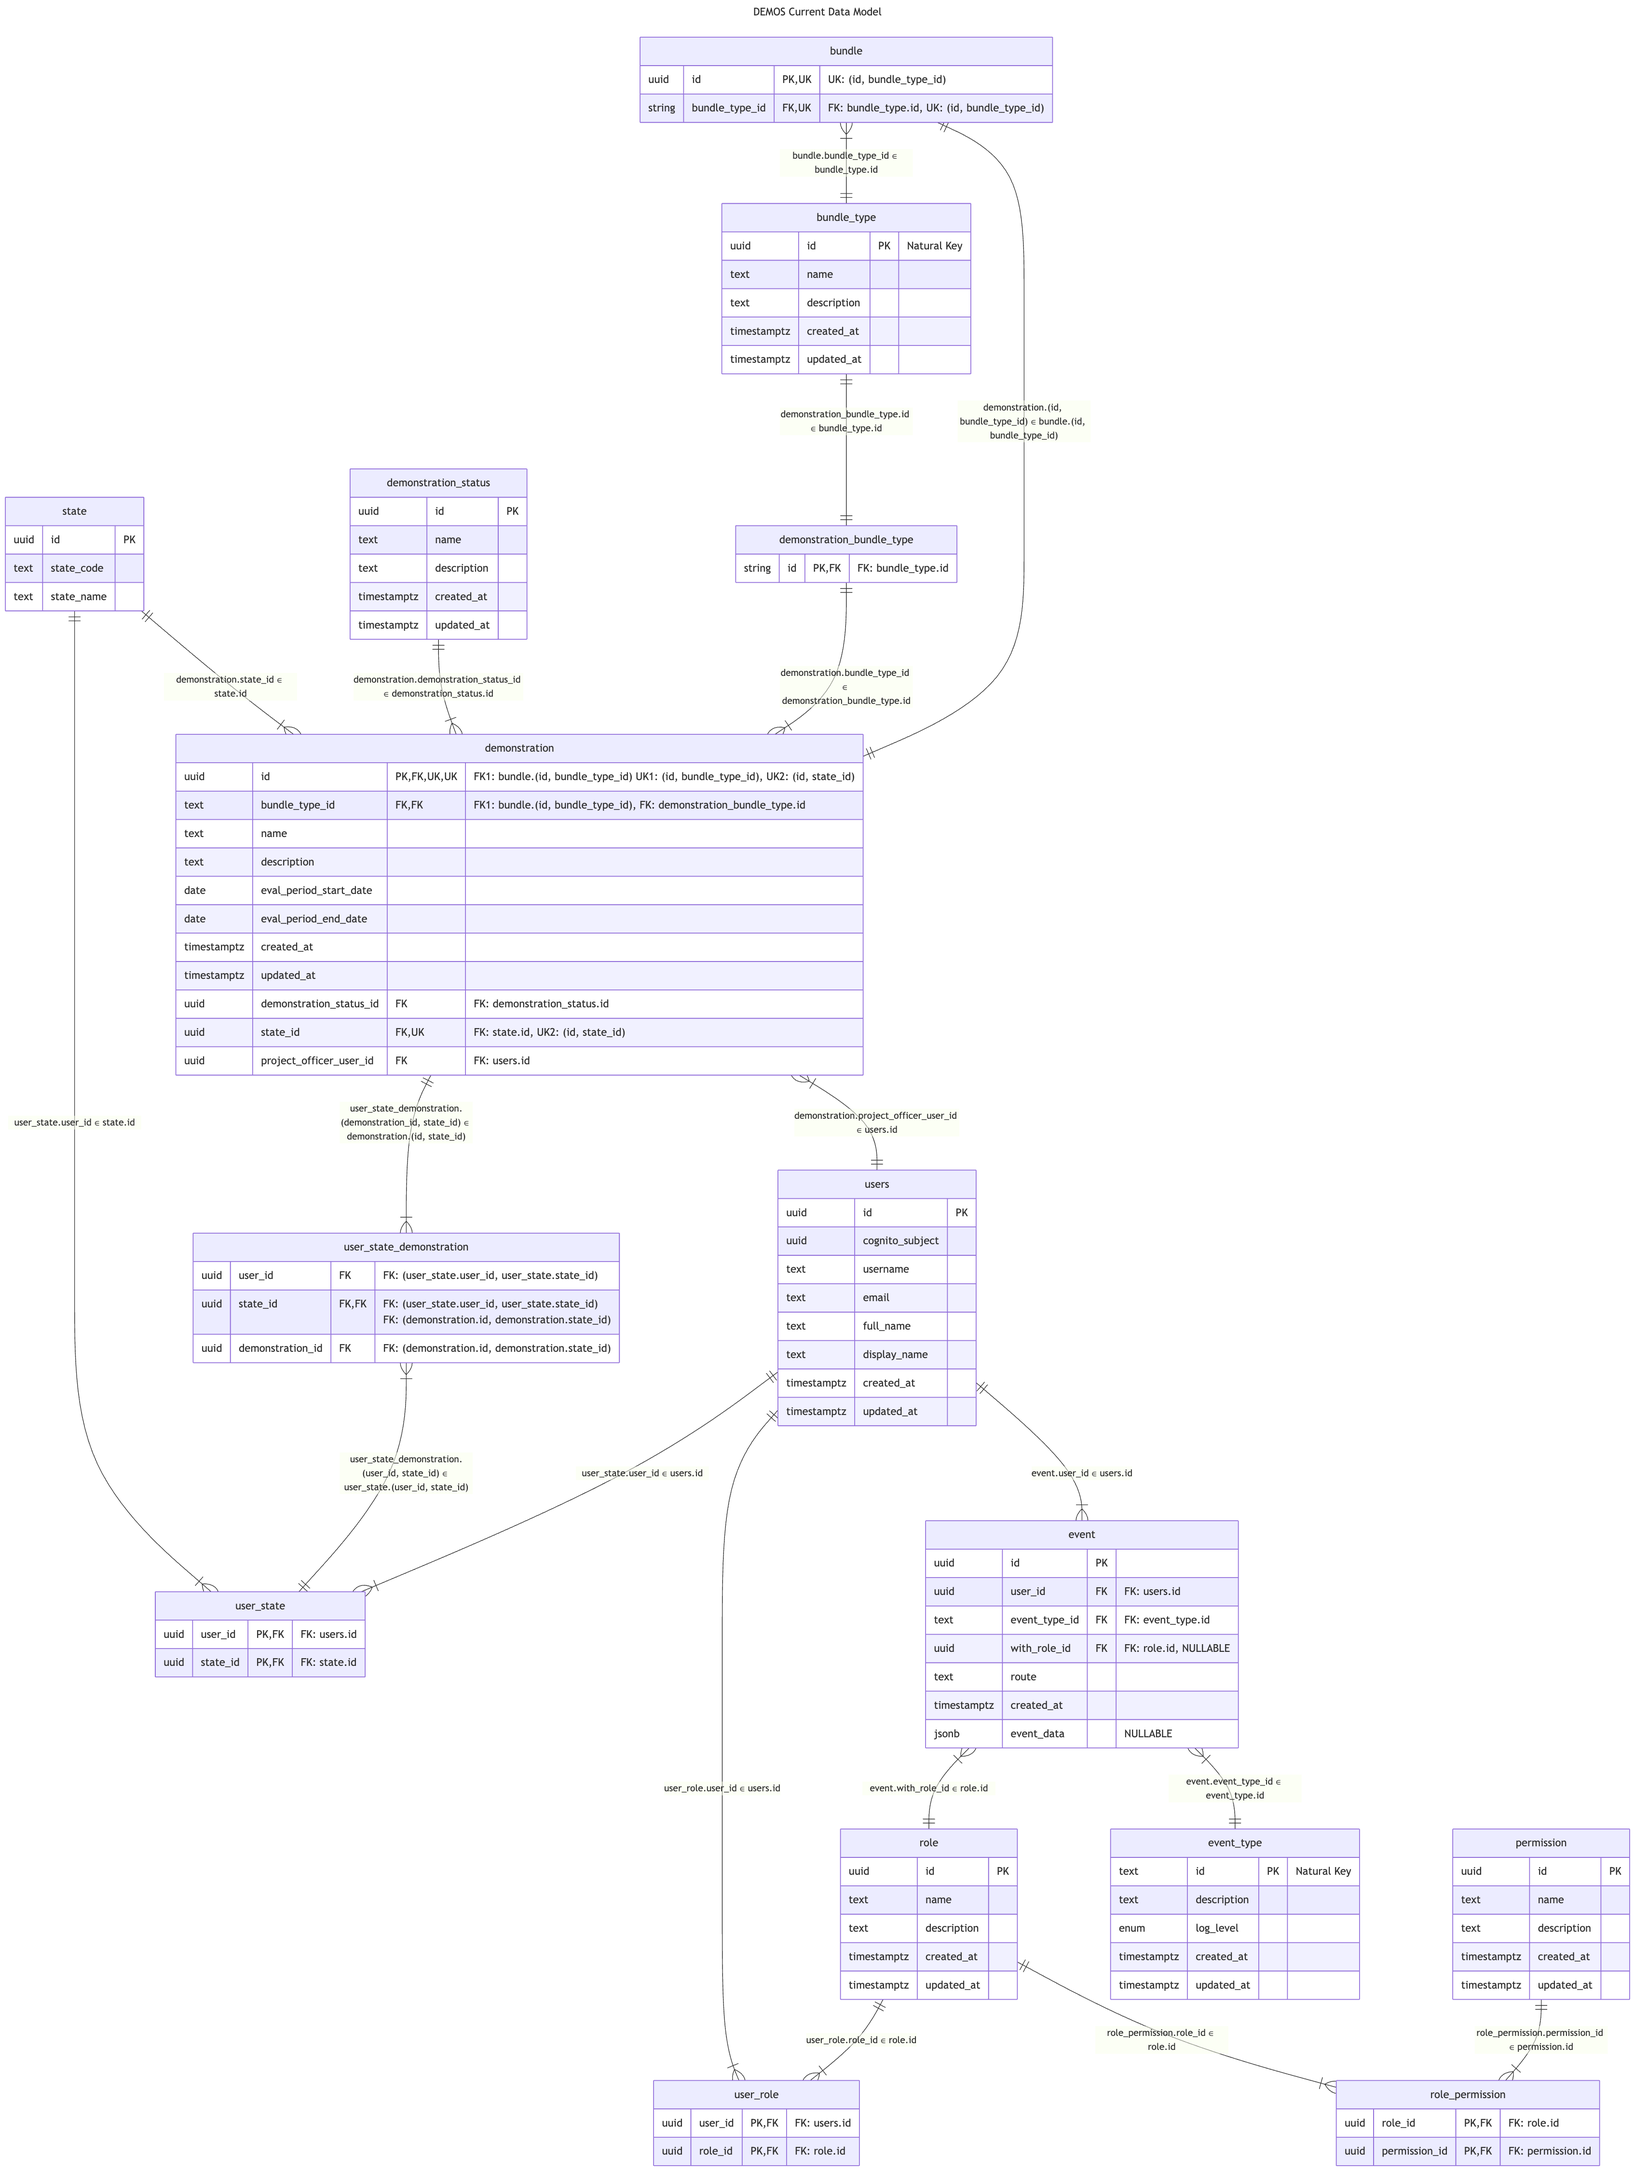
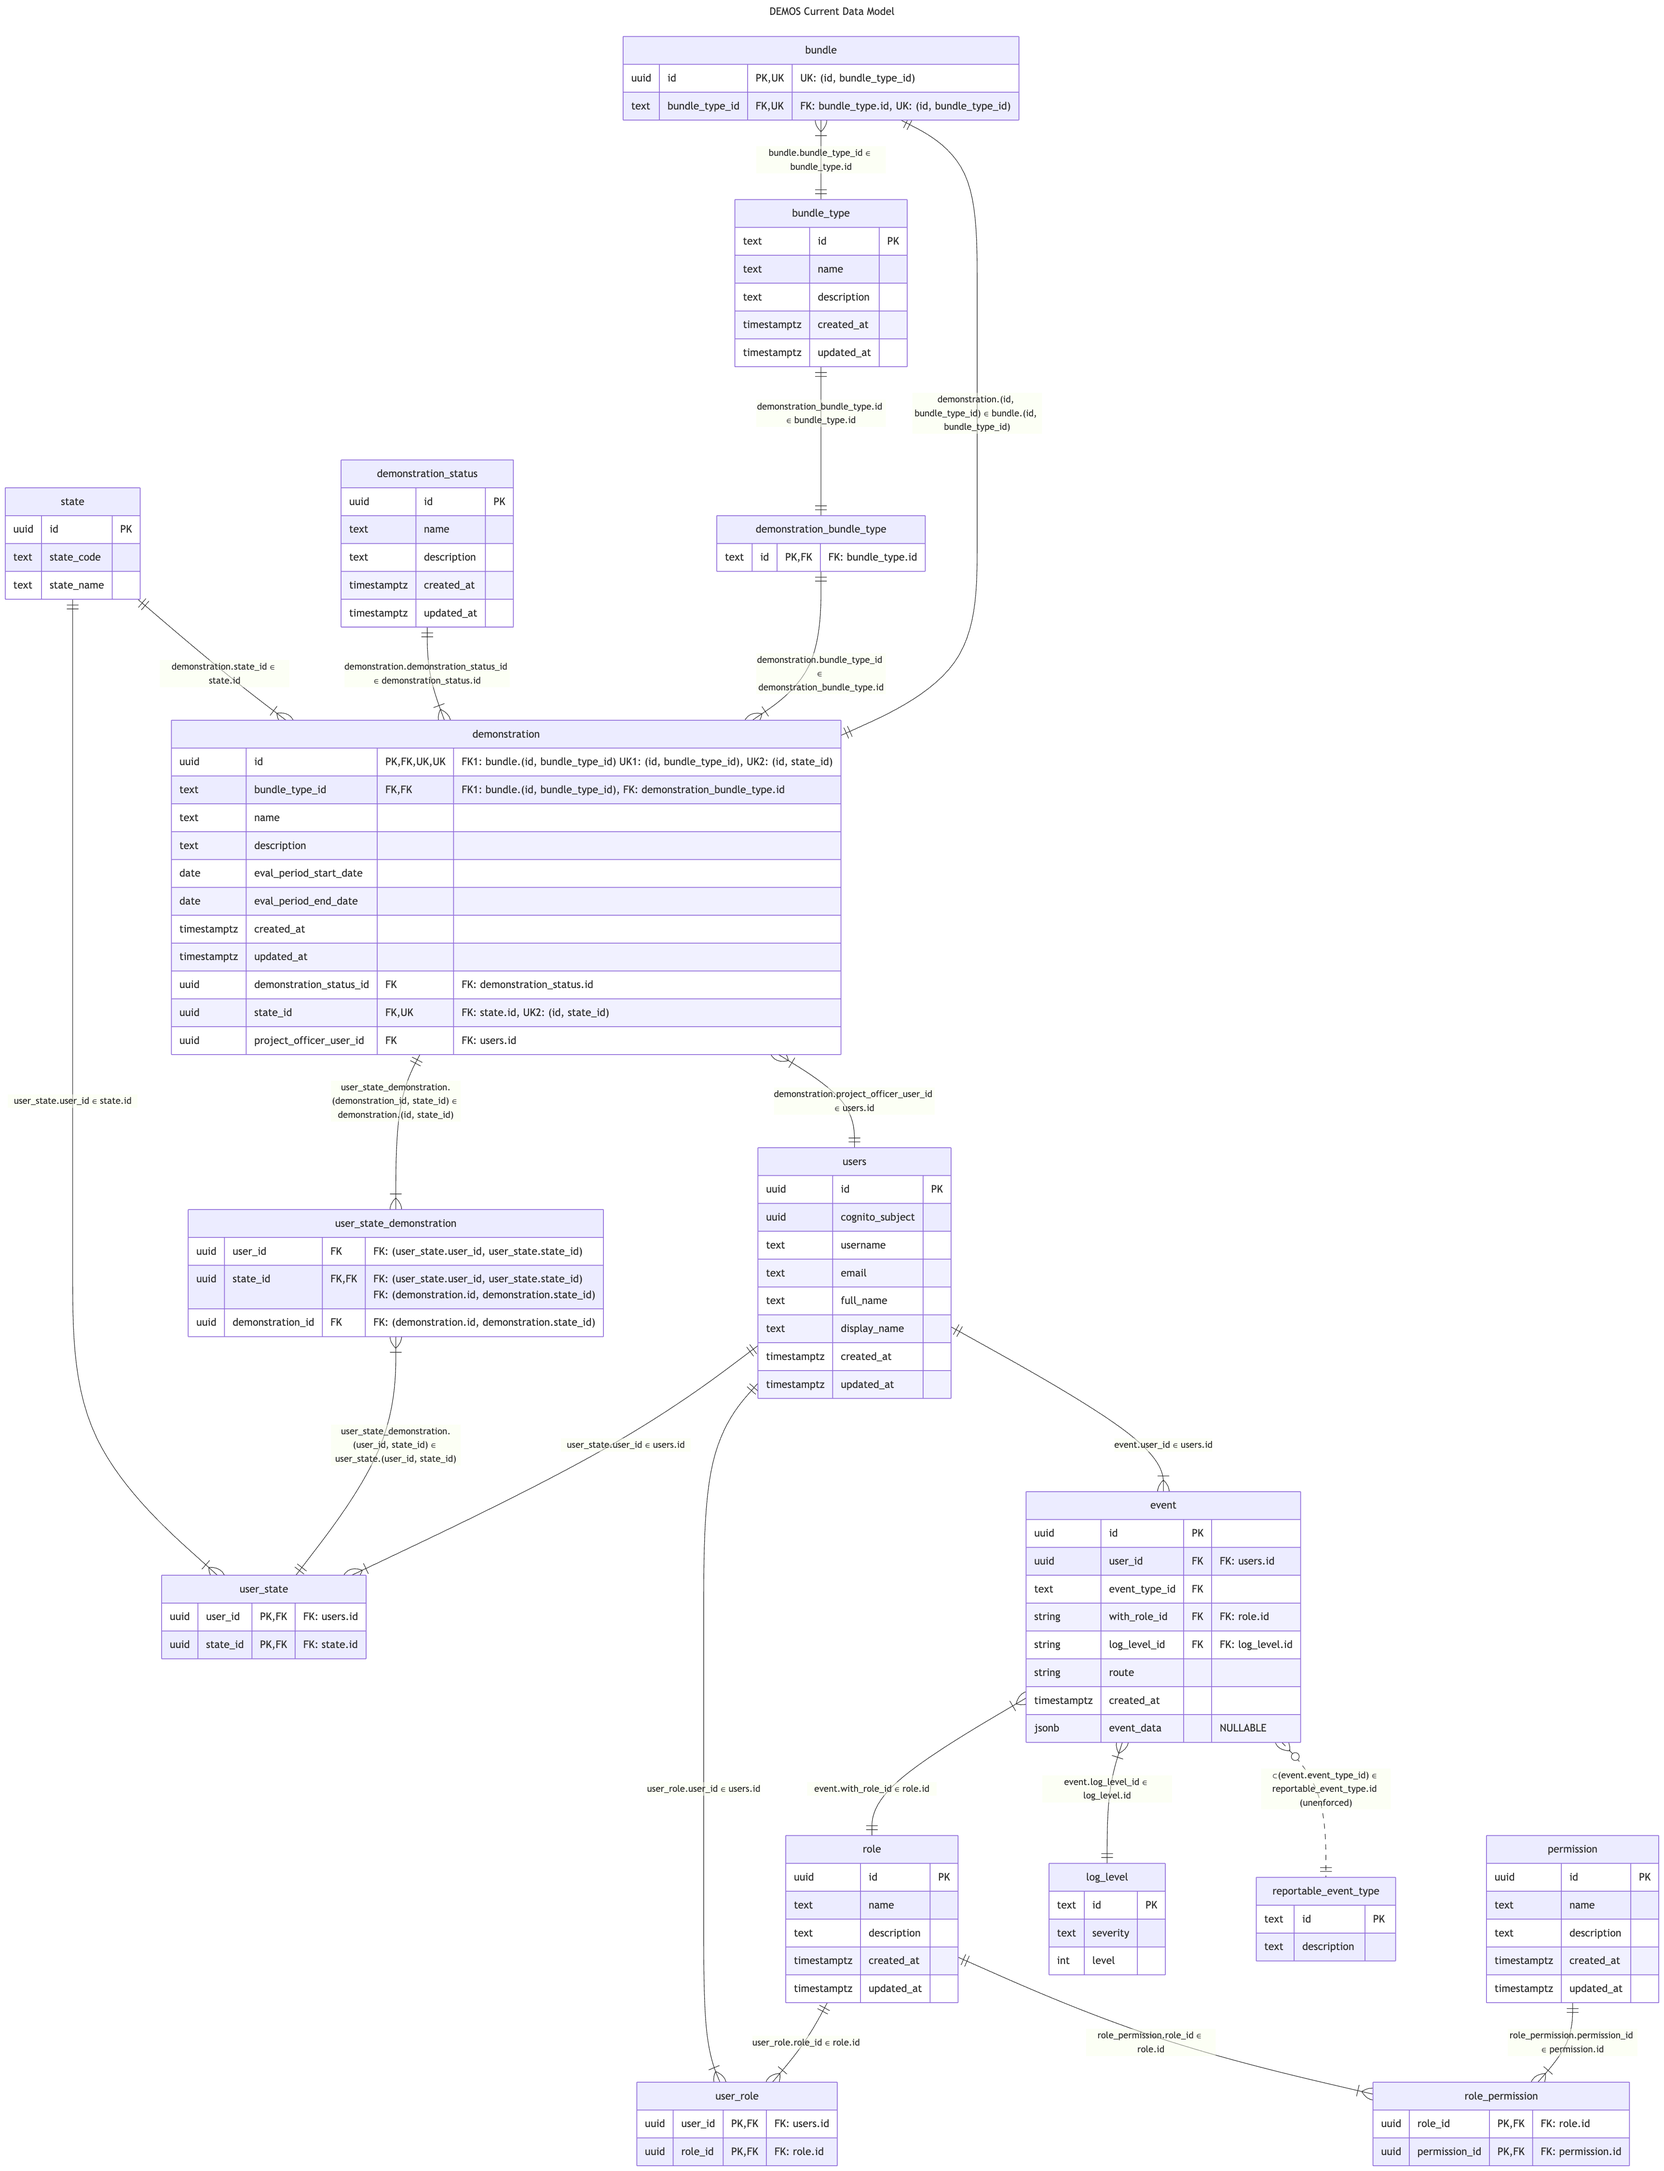
Updates to the event resolvers to align with the method used for most of the others. Moved the event search by user to the user API. Updated the data model.

diff --git a/server/src/model/event/eventResolvers.ts b/server/src/model/event/eventResolvers.ts
@@ -1,39 +1,25 @@
 import { prisma } from '../../prismaClient.js';
 import { CreateEventInput } from './eventSchema.js';
+import { Event } from "@prisma/client";
 import { GraphQLContext, getCurrentUserId, getCurrentUserRoleId } from '../../auth/auth.util.js';
 
 export const eventResolvers = {
   Query: {
     events: async () => {
       return await prisma().event.findMany({
-        include: {
-          user: true,
-          logLevel: true,
-          withRole: true
-        },
         orderBy: { createdAt: 'desc' }
       });
     },
 
     event: async (_: undefined, { id }: { id: string }) => {
       return await prisma().event.findUnique({
-        where: { id },
-        include: {
-          user: true,
-          logLevel: true,
-          withRole: true
-        }
+        where: { id }
       });
     },
 
     eventsByType: async (_: undefined, { eventTypeId }: { eventTypeId: string }) => {
       return await prisma().event.findMany({
         where: { eventTypeId },
-        include: {
-          user: true,
-          logLevel: true,
-          withRole: true
-        },
         orderBy: { createdAt: 'desc' }
       });
     },
@@ -41,11 +27,6 @@ export const eventResolvers = {
     eventsByUser: async (_: undefined, { userId }: { userId: string }) => {
       return await prisma().event.findMany({
         where: { userId },
-        include: {
-          user: true,
-          logLevel: true,
-          withRole: true
-        },
         orderBy: { createdAt: 'desc' }
       });
     },
@@ -53,11 +34,6 @@ export const eventResolvers = {
     eventsByRoute: async (_: undefined, { route }: { route: string }) => {
       return await prisma().event.findMany({
         where: { route },
-        include: {
-          user: true,
-          logLevel: true,
-          withRole: true
-        },
         orderBy: { createdAt: 'desc' }
       });
     }
@@ -72,19 +48,41 @@ export const eventResolvers = {
 
       return await prisma().event.create({
         data: {
-          userId,
-          eventTypeId,
-          logLevelId,
-          withRoleId,
-          route,
-          eventData
-        },
-        include: {
-          user: true,
-          logLevel: true,
-          withRole: true
+          user: {
+            connect: {
+              id: userId
+            }
+          },
+          eventTypeId: eventTypeId,
+          withRole: {
+            connect: {
+              id: withRoleId
+            }
+          },
+          logLevel: {
+            connect: {
+              id: logLevelId
+            }
+          },
+          route: route,
+          eventData: eventData
         }
       });
     }
+  },
+
+  Event: {
+    user: async (parent: Event) => {
+      return await prisma().user.findUnique({
+        where: { id: parent.userId },
+      });
+    },
+
+    withRole: async (parent: Event) => {
+      return await prisma().role.findUnique({
+        where: { id: parent.withRoleId },
+      });
+    },
   }
+
 };

diff --git a/server/src/model/event/eventSchema.ts b/server/src/model/event/eventSchema.ts
@@ -1,4 +1,6 @@
 import { gql } from "graphql-tag";
+import { User } from "../user/userSchema.js";
+import { Role } from "../role/roleSchema.js";
 
 export const eventSchema = gql`
   """
@@ -6,37 +8,25 @@ export const eventSchema = gql`
   """
   type Event {
     id: ID!               # From B/E (generated by Prisma)
-    userId: ID!           # From B/E
+    user: User!           # From B/E
     eventTypeId: String!  # From F/E
-    withRoleId: ID!       # From B/E
+    withRole: Role!       # From B/E
     logLevelId: String!   # From F/E
     route: String!        # From F/E
     createdAt: DateTime!  # From B/E (generated by Prisma)
     eventData: JSONObject # From F/E
   }
 
-  # An event with all the fields populated for easier querying
-  type EventHydrated {
-    id: ID!
-    user: User!
-    eventTypeId: String!
-    withRole: Role!
-    logLevelId: String!
-    route: String!
-    createdAt: DateTime!
-    eventData: JSONObject
-  }
-
   type Query {
-    events: [EventHydrated!]!
-    event(id: ID!): EventHydrated
-    eventsByType(eventTypeId: String!): [EventHydrated!]!
-    eventsByUser(userId: ID!): [EventHydrated!]!
-    eventsByRoute(route: String!): [EventHydrated!]!
+    events: [Event]!
+    event(id: ID!): Event
+    eventsByType(eventTypeId: String!): [Event]!
+    eventsByUser(userId: ID!): [Event]!
+    eventsByRoute(route: String!): [Event]!
   }
   
   type Mutation {
-    createEvent(input: CreateEventInput!): EventHydrated!
+    createEvent(input: CreateEventInput!): Event!
   }
 
   """
@@ -54,9 +44,9 @@ export const eventSchema = gql`
 type DateTime = Date;
 export interface Event {
   id: string;
-  userId: string;
+  user: User;
   eventTypeId: string;
-  withRoleId: string;
+  withRole: Role;
   logLevelId: string;
   route: string;
   createdAt: DateTime;

diff --git a/server/src/model/user/userSchema.ts b/server/src/model/user/userSchema.ts
@@ -2,6 +2,7 @@ import { gql } from "graphql-tag";
 import { State } from "../state/stateSchema.js";
 import { Role } from "../role/roleSchema.js";
 import { Demonstration } from "../demonstration/demonstrationSchema.js";
+import { Event } from "../event/eventSchema.js"
 
 export const userSchema = gql`
   type User {
@@ -16,6 +17,7 @@ export const userSchema = gql`
     states: [State!]!
     roles: [Role!]!
     demonstrations: [Demonstration!]!
+    events: [Event!]!
   }
 
   input AddUserInput {
@@ -42,7 +44,7 @@ export const userSchema = gql`
 
   type Mutation {
     addUser(input: AddUserInput!): User
-    updateUser(input: UpdateUserInput!): User
+    updateUser(id: ID!, input: UpdateUserInput!): User
     deleteUser(id: ID!): User
   }
 
@@ -65,6 +67,7 @@ export interface User {
   states: State[];
   roles: Role[];
   demonstrations: Demonstration[];
+  events: Event[];
 }
 
 export interface AddUserInput {

diff --git a/server/src/model/user/userResolvers.ts b/server/src/model/user/userResolvers.ts
@@ -124,5 +124,13 @@ export const userResolvers = {
         (userStateDemonstration) => userStateDemonstration.demonstration,
       );
     },
+
+    events: async (parent: User) => {
+      return await prisma().event.findMany({
+        where: {
+          userId: parent.id
+        }
+      });
+    }
   },
 };

diff --git a/data/utilities/scripts/history_trigger_generator.py b/data/utilities/scripts/history_trigger_generator.py
@@ -15,7 +15,6 @@ TBL_FOLDERS = [
     "demonstration",
     "demonstrationBundleType",
     "demonstrationStatus",
-    "eventType",
     "permission",
     "role",
     "state",
